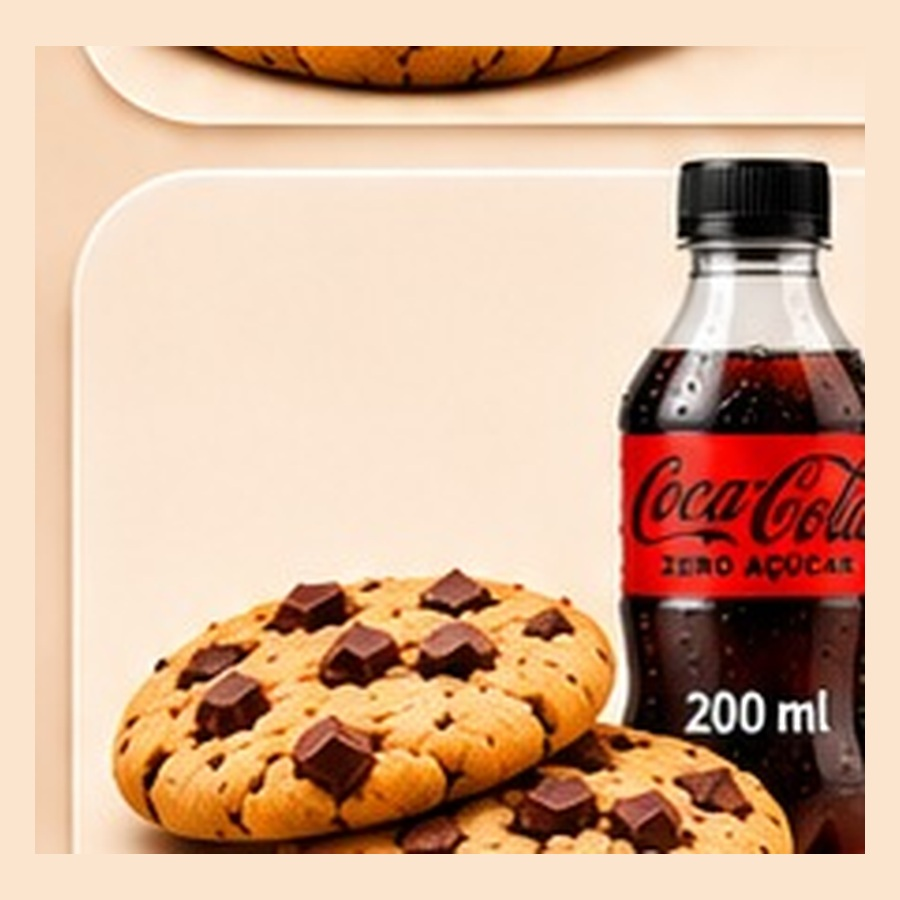
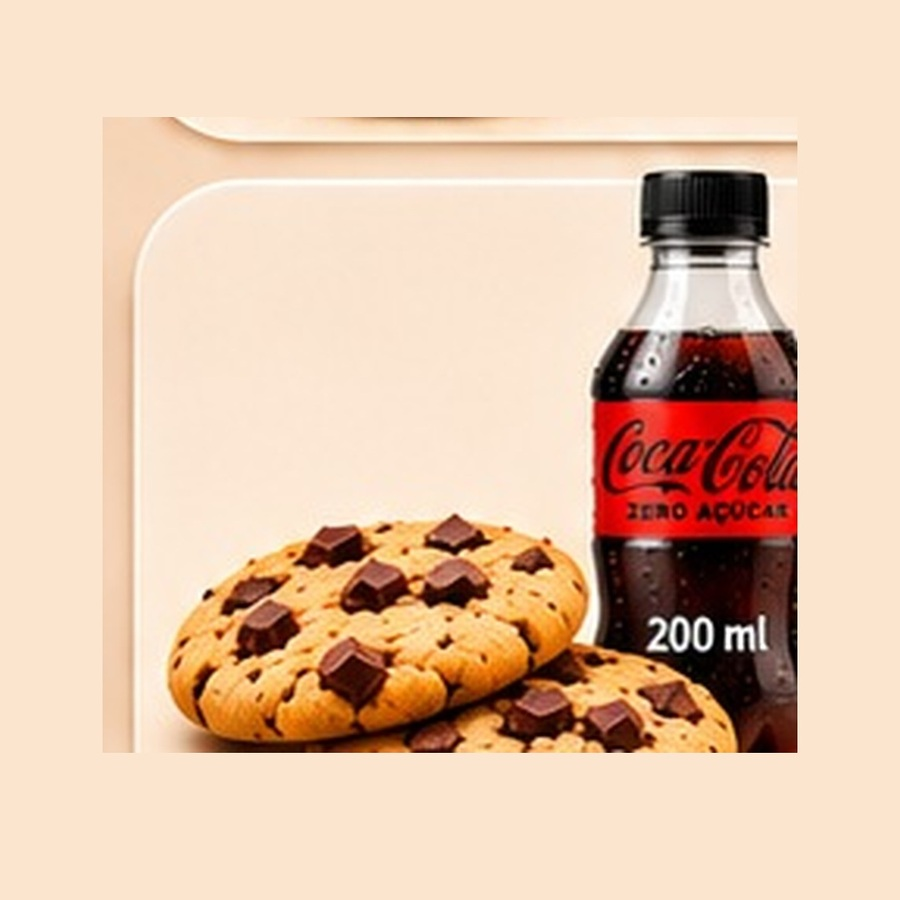
Add files via upload

diff --git a/index.html b/index.html
@@ -20,7 +20,7 @@ button,input,textarea,select{font:inherit}button{cursor:pointer}
 .sub{color:#78503a;margin:0 0 18px}.products{display:grid;grid-template-columns:repeat(2,minmax(0,1fr));gap:15px}
 .group-heading{grid-column:1/-1;background:linear-gradient(90deg,#7a3014,#4b1909);color:#fff9ef;border-radius:50px;padding:10px 20px;margin:18px 0 0;font-size:21px;width:fit-content}
 .product{background:linear-gradient(145deg,#fff6e8,#ffe3c6);border:2px solid #fff8ef;border-radius:25px;padding:15px;box-shadow:0 6px 16px #7b391b27;display:flex;align-items:center;gap:16px;min-width:0}
-.pic{width:43%;height:205px;flex:none;border-radius:17px;overflow:hidden;background:#f0c79b}.pic img{width:100%;height:100%;object-fit:cover}.product.bebidas .pic img{object-fit:contain;background:#fbe5cf}
+.pic{width:43%;height:205px;flex:none;border-radius:17px;overflow:hidden;background:#f0c79b}.pic img{width:100%;height:100%;object-fit:cover}.product.bebidas .pic img{object-fit:contain;background:#fbe5cf;object-position:center center}.product.bebidas .pic{background:#fbe5cf}
 .details{min-width:0;flex:1}.details h3{font-size:19px;line-height:1.2;margin:0 0 8px}.details p{font-size:13px;line-height:1.4;margin:0 0 9px}.old-price{color:#793524;text-decoration:line-through;text-decoration-color:#c00;text-decoration-thickness:2px;font-weight:750;font-size:15px}
 .price{display:inline-block;color:white;background:linear-gradient(#934019,#5b210b);border-radius:24px;padding:7px 18px;font-weight:900;font-size:22px;white-space:nowrap;margin-top:5px;box-shadow:inset 0 2px 3px #fff4}
 .saving{display:table;color:white;background:linear-gradient(#5ccf24,#0b8c18);padding:5px 10px;border-radius:30px;font-size:12px;font-weight:850;margin-top:7px}
